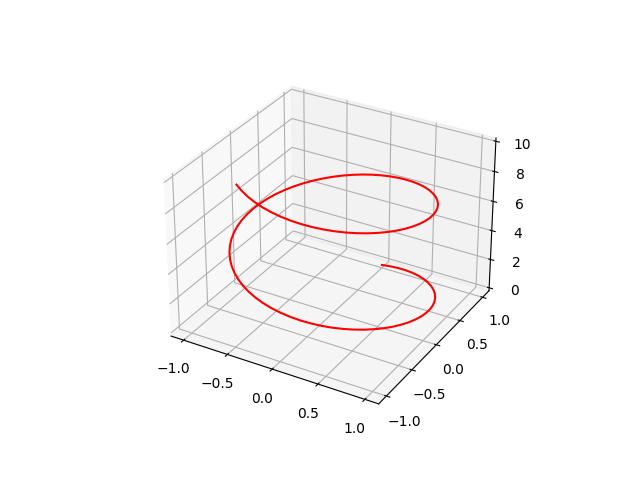
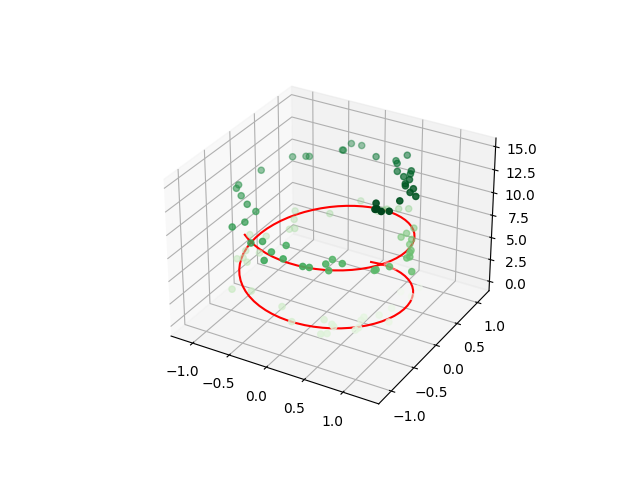
Added scatter points to Basic3DPlot

diff --git a/PythonDemos/Basic3DPlot.py b/PythonDemos/Basic3DPlot.py
@@ -6,12 +6,17 @@ fig = plt.figure()
 
 ax = plt.axes(projection='3d')
 
-#3d line plot
+# 3d line
 zline = np.linspace(0, 10, 100)
 xline = np.sin(zline)
 yline = np.cos(zline)
-
 ax.plot3D(xline, yline, zline, 'red')
+
+# 3d scatter points
+zdata = 15 * np.random.random(100)
+xdata = np.sin(zdata) + 0.1 * np.random.randn(100)
+ydata = np.cos(zdata) + 0.1 * np.random.randn(100)
+ax.scatter3D(xdata, ydata, zdata, c=zdata, cmap='Greens');
 
 plt.savefig("Basic3DPlot.png")
 plt.show()
